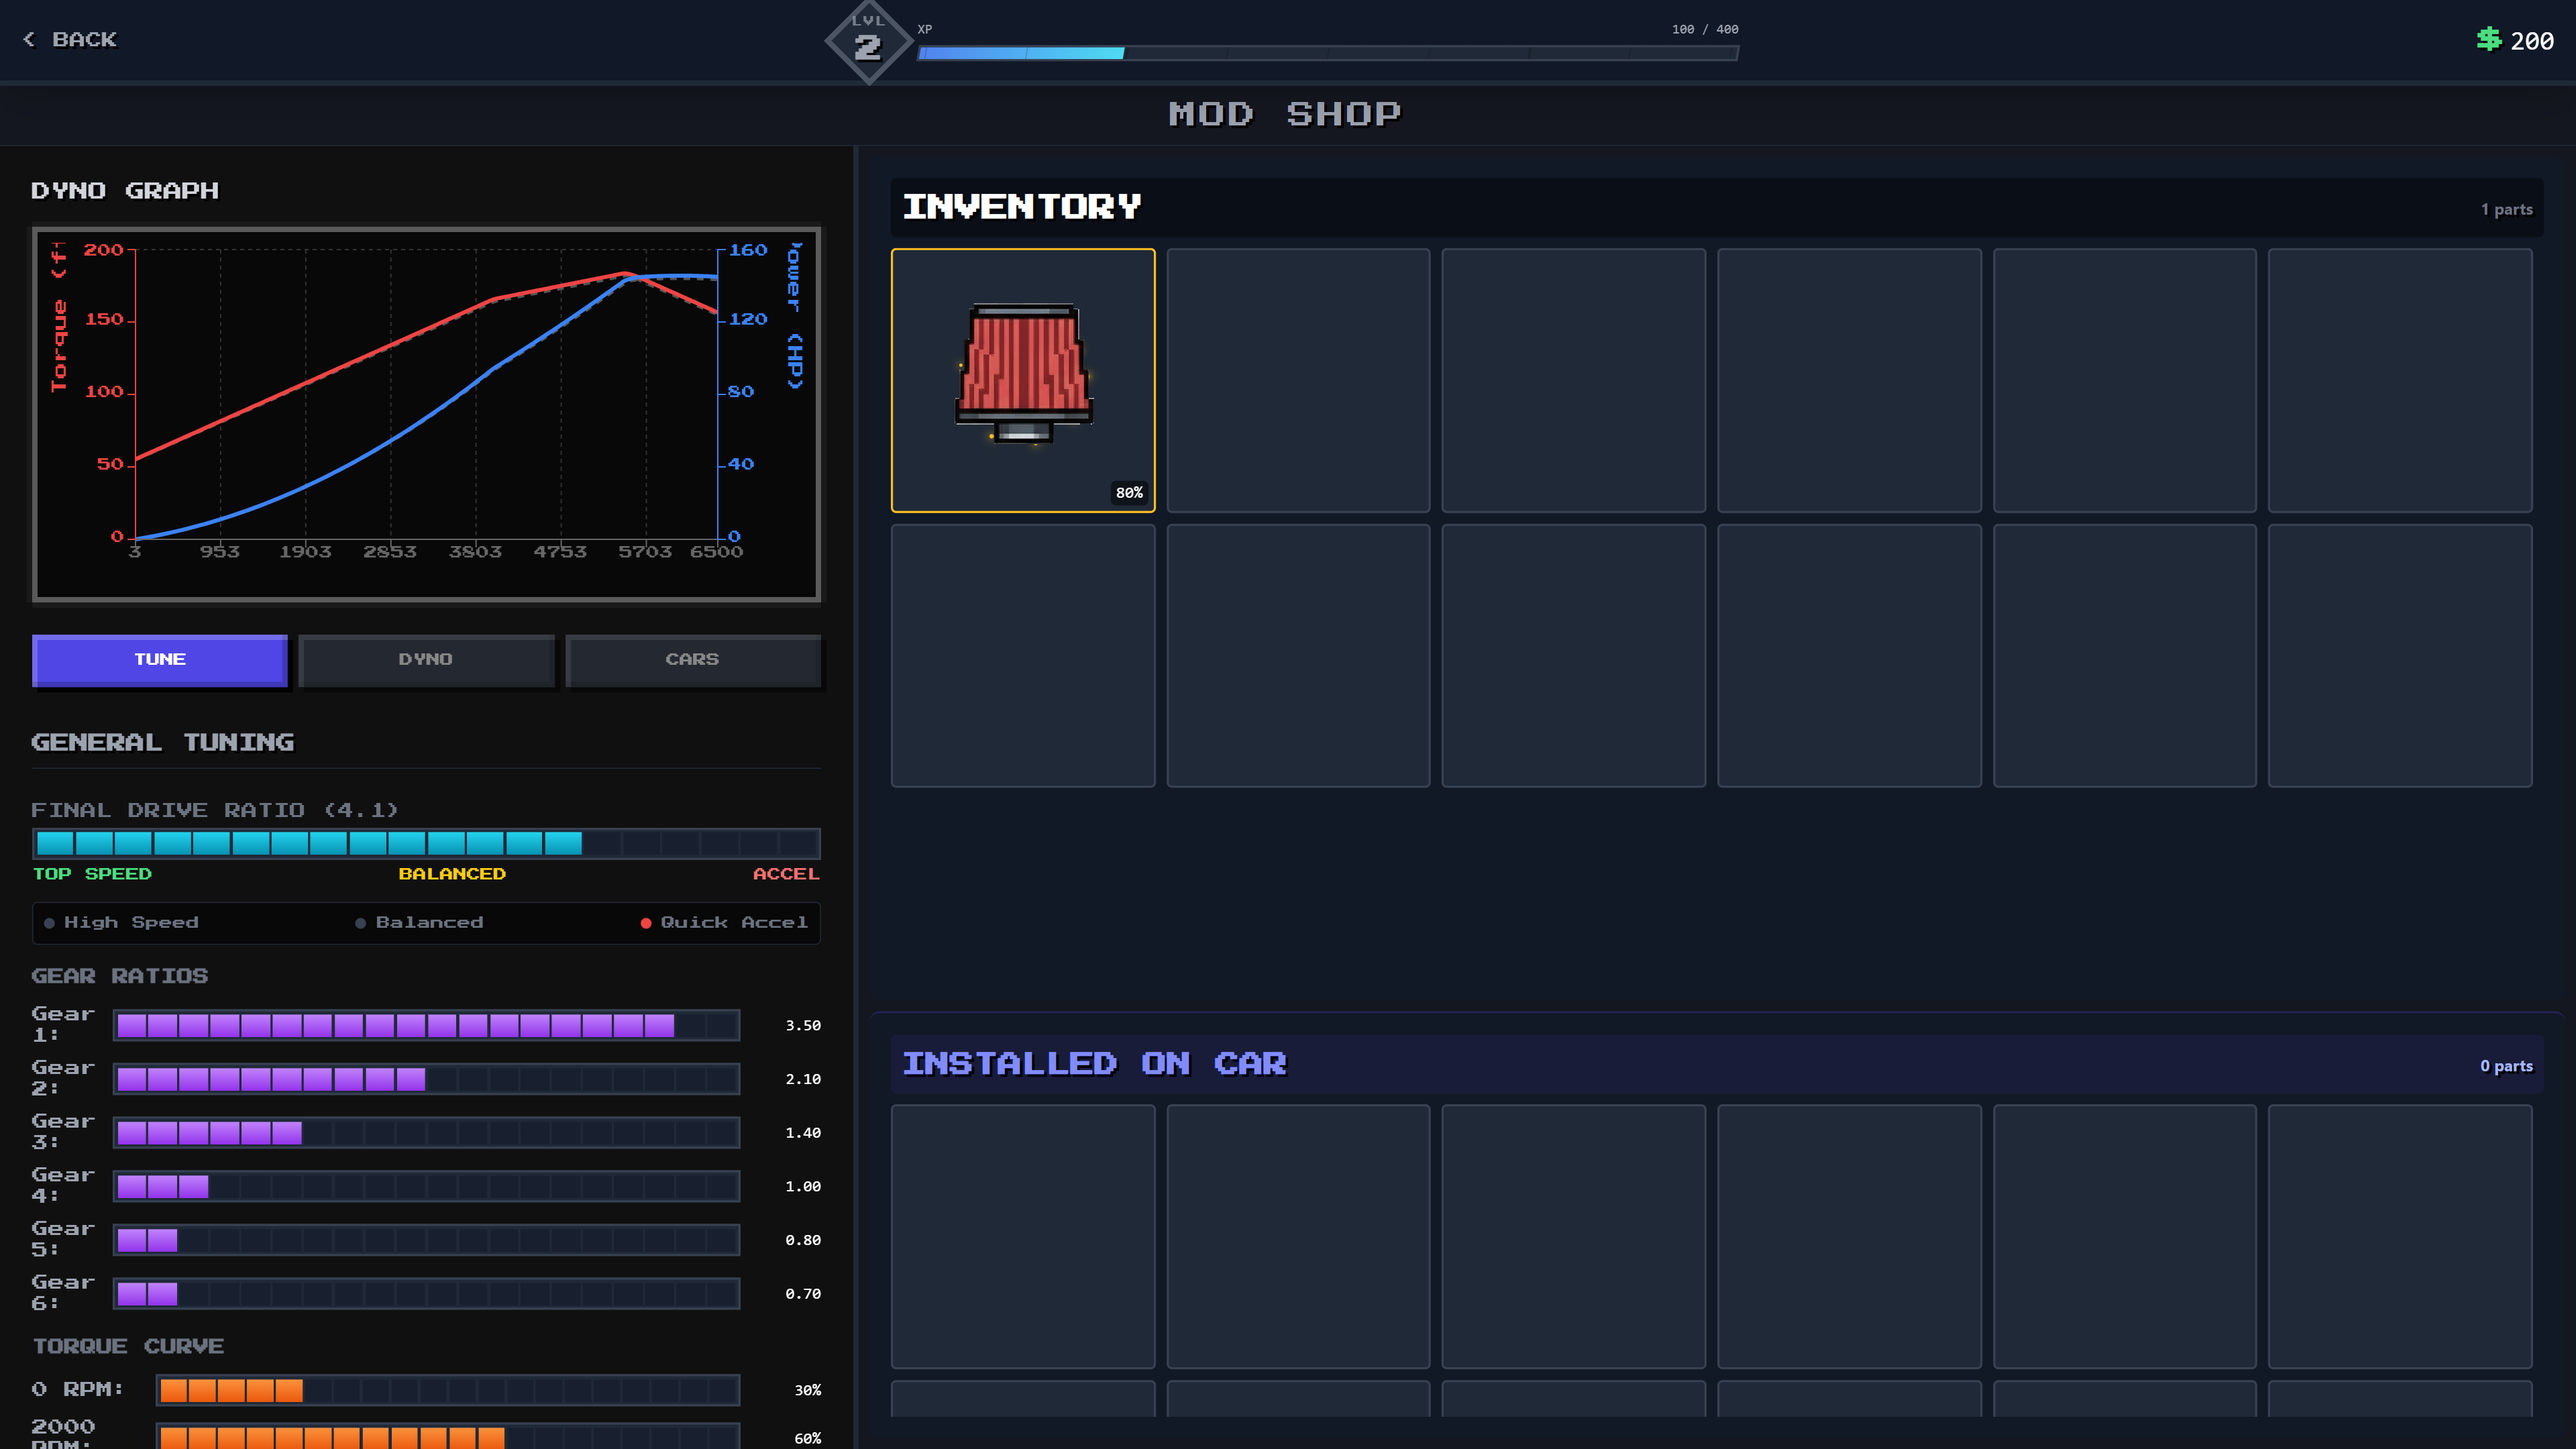
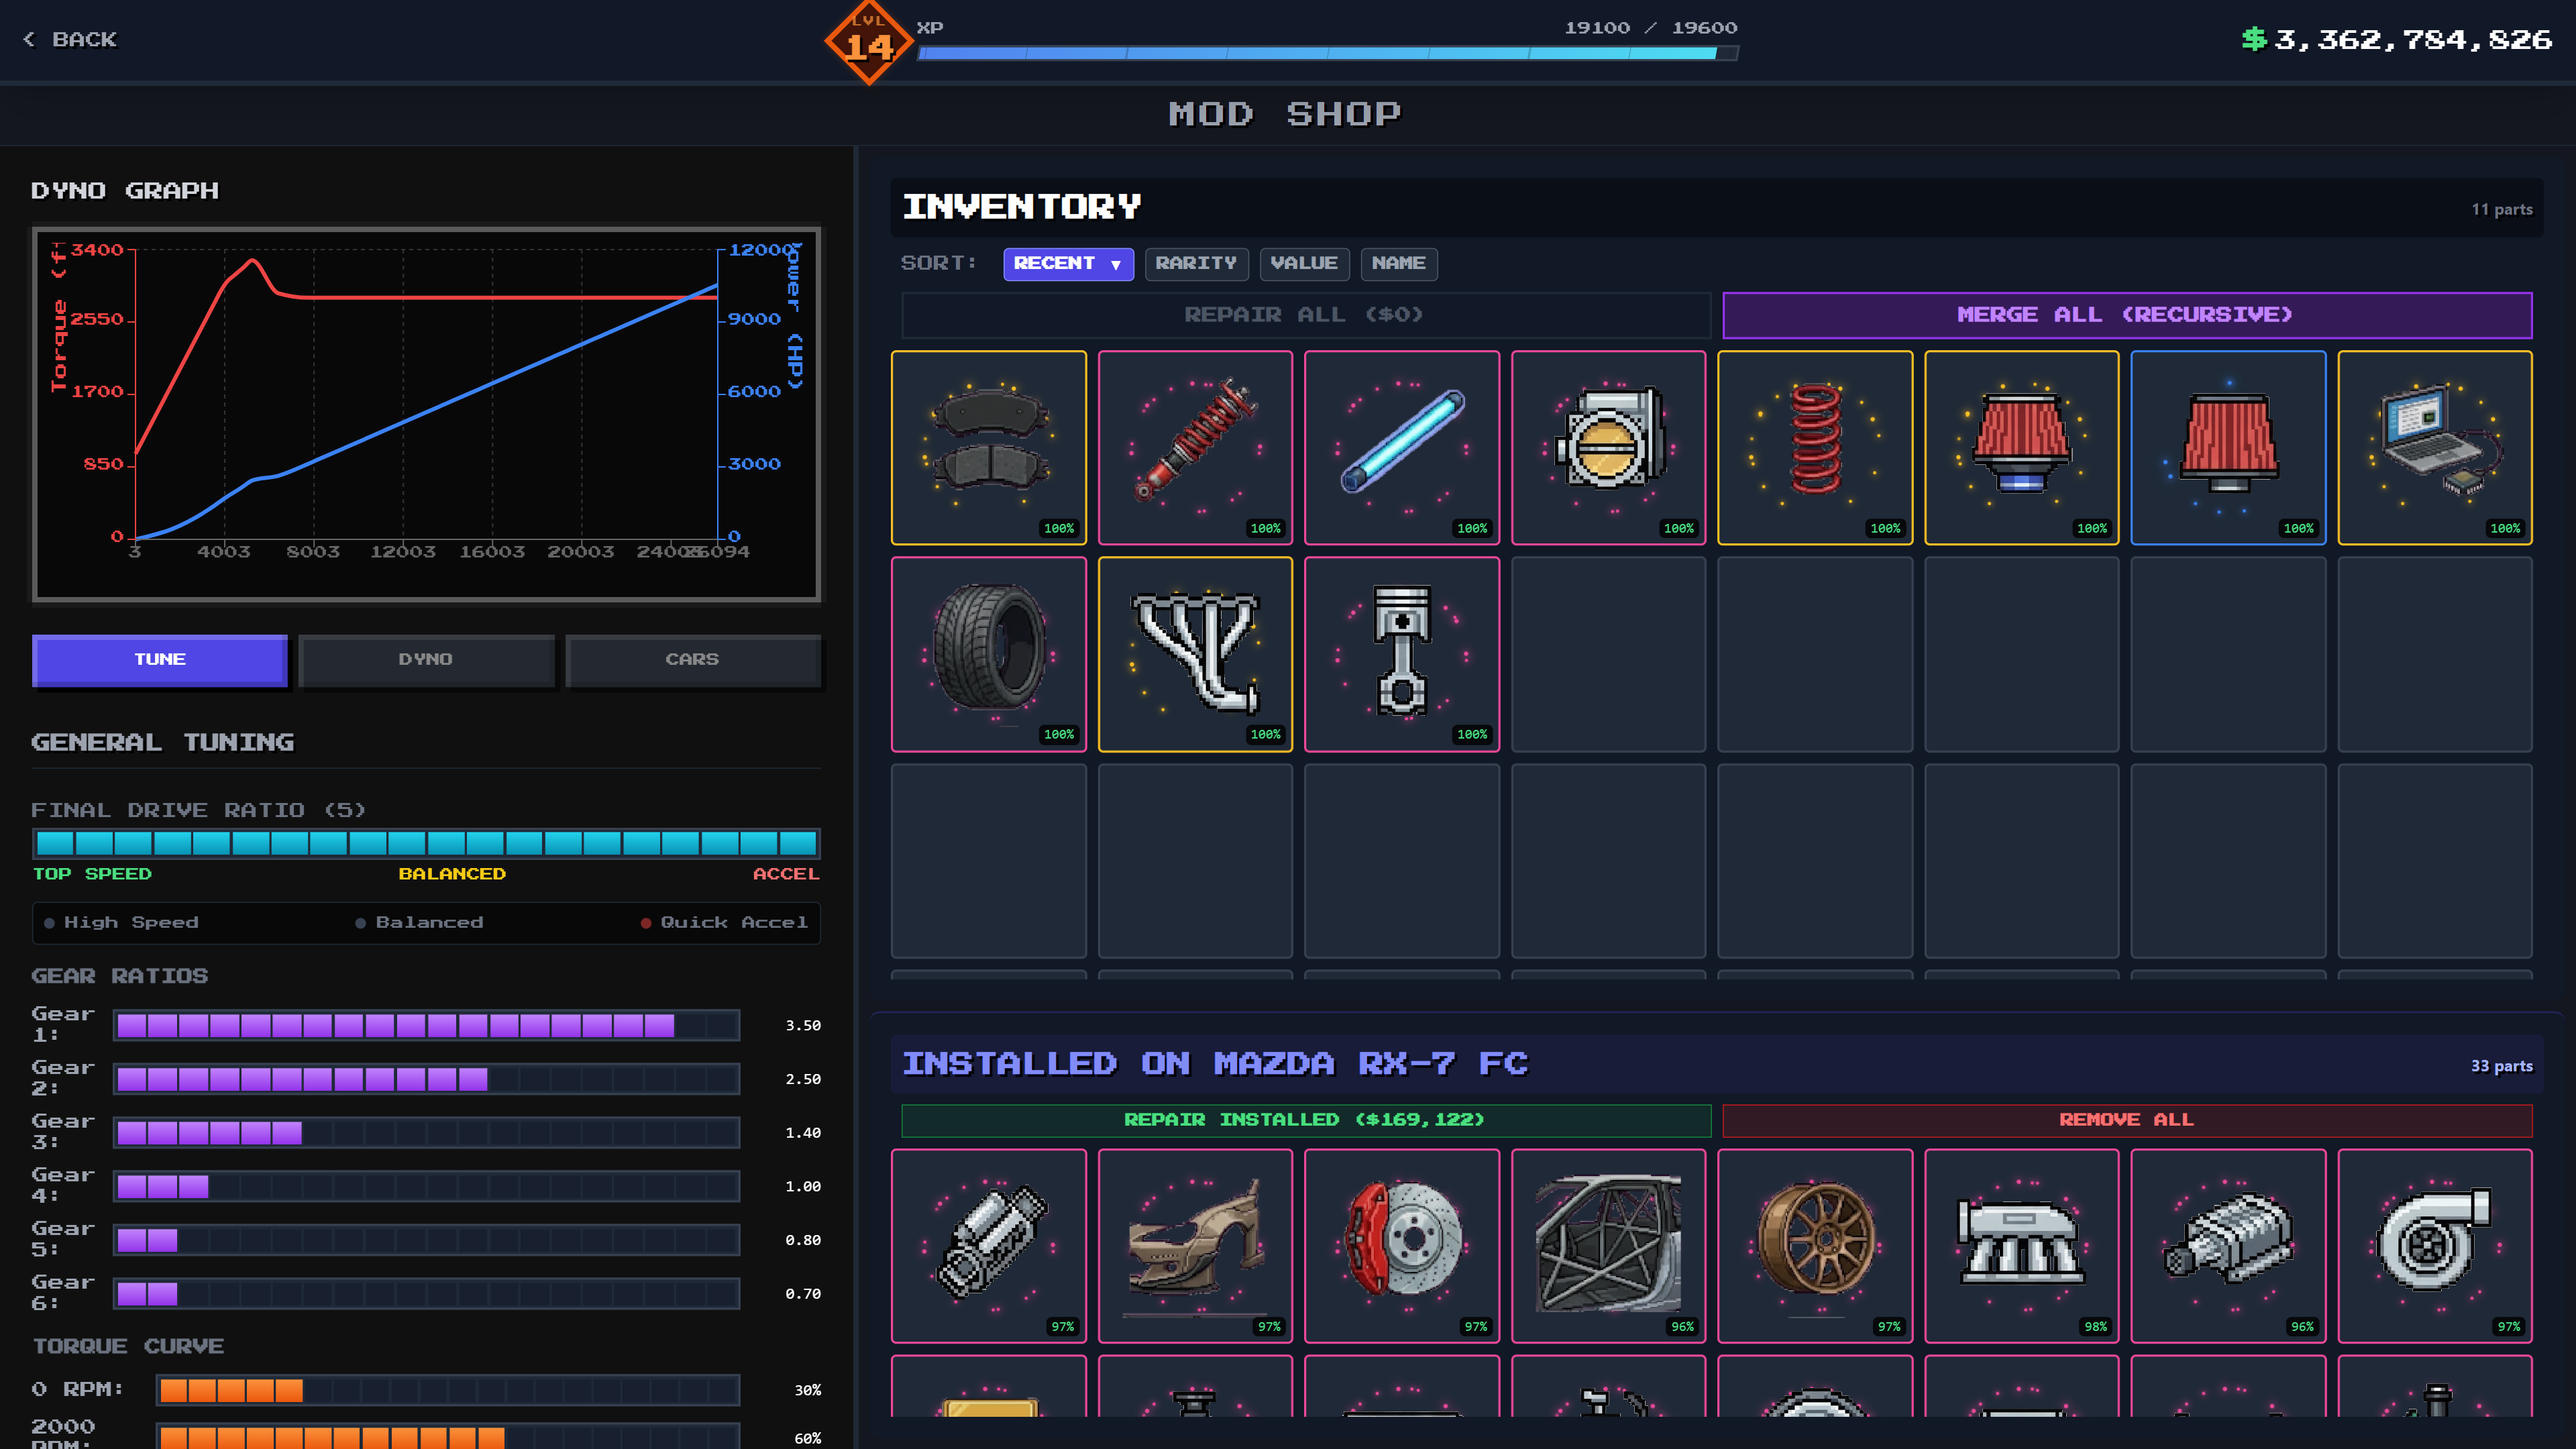
feat: Add a new projects page featuring detailed project views, image galleries, and a new Navbar component.

diff --git a/src/components/Navbar.tsx b/src/components/Navbar.tsx
@@ -16,60 +16,60 @@ export default function Navbar() {
 	const [isJoey, setIsJoey] = useState(false);
 	const [messages, setMessages] = useState<any[]>([]);
 
-	useEffect(() => {
-		const validateSession = async () => {
-			try {
-				const response = await fetch(
-					getFullUrl('/api/validateSession'),
-					{
-						method: 'GET',
-						credentials: 'include',
-					}
-				);
-				const data = await response.json();
-				if (data.isAuthenticated) {
-					setIsAuthenticated(true);
-					if (data.isJoey) {
-						setIsJoey(true);
-					}
-				} else {
-					document.cookie = 'authToken=; Max-Age=0; path=/;';
-				}
-			} catch {
-				document.cookie = 'authToken=; Max-Age=0; path=/;';
-			}
-		};
+	// useE
+	// 	const validateSession = async () => {
+	// 		try {
+	// 			const response = await fetch(
+	// 				getFullUrl('/api/validateSession'),
+	// 				{
+	// 					method: 'GET',
+	// 					credentials: 'include',
+	// 				}
+	// 			);
+	// 			const data = await response.json();
+	// 			if (data.isAuthenticated) {
+	// 				setIsAuthenticated(true);
+	// 				if (data.isJoey) {
+	// 					setIsJoey(true);
+	// 				}
+	// 			} else {
+	// 				document.cookie = 'authToken=; Max-Age=0; path=/;';
+	// 			}
+	// 		} catch {
+	// 			document.cookie = 'authToken=; Max-Age=0; path=/;';
+	// 		}
+	// 	};
 
-		const getMessages = async () => {
-			const response = await fetch(getFullUrl('/api/getUser'), {
-				method: 'GET',
-				credentials: 'include',
-			});
-			const data = await response.json();
+	// 	const getMessages = async () => {
+	// 		const response = await fetch(getFullUrl('/api/getUser'), {
+	// 			method: 'GET',
+	// 			credentials: 'include',
+	// 		});
+	// 		const data = await response.json();
 
-			if (!data) {
-				console.log('User not signed in.');
-				return;
-			}
+	// 		if (!data) {
+	// 			console.log('User not signed in.');
+	// 			return;
+	// 		}
 
-			if (data.message === 'Unauthorized') {
-				return [];
-			}
+	// 		if (data.message === 'Unauthorized') {
+	// 			return [];
+	// 		}
 
-			return data.user.messages;
-		};
-		validateSession();
-		getMessages()
-			.then((messages) => {
-				if (messages) {
-					console.log('Fetched messages:', messages);
-					setMessages(messages);
-				}
-			})
-			.catch((error) => {
-				console.error('Error fetching messages:', error);
-			});
-	}, []);
+	// 		return data.user.messages;
+	// 	};
+	// 	validateSession();
+	// 	getMessages()
+	// 		.then((messages) => {
+	// 			if (messages) {
+	// 				console.log('Fetched messages:', messages);
+	// 				setMessages(messages);
+	// 			}
+	// 		})
+	// 		.catch((error) => {
+	// 			console.error('Error fetching messages:', error);
+	// 		});
+	// }, []);
 
 	const closeMenu = () => setMenuOpen(false);
 
@@ -102,9 +102,9 @@ export default function Navbar() {
 
 					{/* Desktop Nav */}
 					<div className="hidden lg:flex md:items-center md:space-x-6 md:order-2">
-						<NavLinks isJoey={isJoey} />
+						<NavLinks isJoey={false} />
 
-						{!isAuthenticated ? (
+						{/* {!isAuthenticated ? (
 							<>
 								<Link
 									href="/login"
@@ -129,7 +129,7 @@ export default function Navbar() {
 								<NotificationBell messages={messages} />
 								<ProfileMenu logout={logout} />
 							</div>
-						)}
+						)} */}
 					</div>
 
 					{/* Mobile Menu */}
@@ -138,7 +138,7 @@ export default function Navbar() {
 						closeMenu={closeMenu}
 						logout={logout}
 						isAuthenticated={isAuthenticated}
-						isJoey={isJoey}
+						isJoey={false}
 					/>
 
 					{/* Hamburger */}

diff --git a/src/pages/projects/index.tsx b/src/pages/projects/index.tsx
@@ -39,22 +39,56 @@ const projects: Project[] = [
 			{
 				type: 'image',
 				src: '/images/drag/1.png',
-				alt: 'Dashboard Overview',
+				alt: 'Main Menu',
 			},
 			{
 				type: 'image',
 				src: '/images/drag/2.png',
-				alt: 'Analytics View',
+				alt: 'Racing',
 			},
 			{
 				type: 'image',
 				src: '/images/drag/3.png',
-				alt: 'Reports Section',
+				alt: 'Junkyard',
 			},
 			{
 				type: 'image',
 				src: '/images/drag/4.png',
-				alt: 'Reports Section',
+				alt: 'Inventory',
+			},
+		],
+	},
+	{
+		id: 2,
+		title: 'Adelphi AI Society Website',
+		description:
+			'A website for the Adelphi AI Society, showcasing the organization"s mission, projects, and upcoming events.',
+		longDescription:
+			'A website for the Adelphi AI Society, showcasing the organization"s mission, projects, and upcoming events.',
+		thumbnail: '/images/adelphiaisociety/1.png',
+		link: 'https://adelphiaisociety.vercel.app',
+		github: 'https://github.com/TeggTTV/adelphiaiclub',
+		tags: ['React', 'TypeScript', 'TailwindCSS'],
+		gallery: [
+			{
+				type: 'image',
+				src: '/images/adelphiaisociety/1.png',
+				alt: 'Hero',
+			},
+			{
+				type: 'image',
+				src: '/images/adelphiaisociety/2.png',
+				alt: 'Members',
+			},
+			{
+				type: 'image',
+				src: '/images/adelphiaisociety/3.png',
+				alt: 'Events',
+			},
+			{
+				type: 'image',
+				src: '/images/adelphiaisociety/4.png',
+				alt: 'FAQ',
 			},
 		],
 	},
